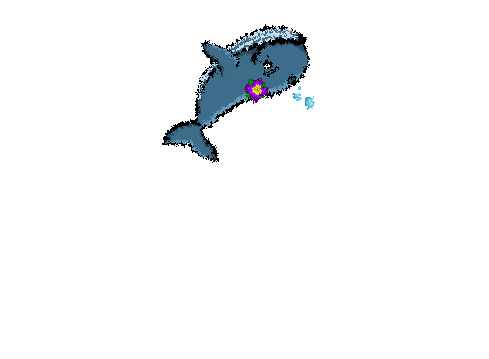
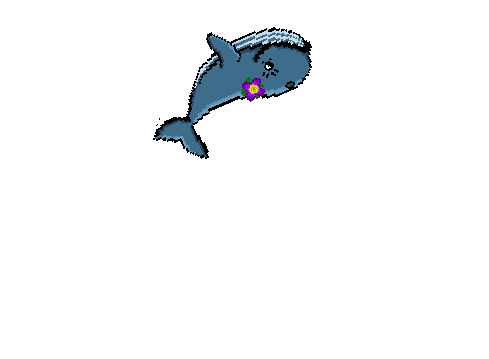
Update Mamu animation for clarity, and idle

Changed region(s): [[0.3067, 0.0613, 0.6442, 0.4596]]

diff --git a/game.py b/game.py
@@ -108,6 +108,20 @@ class NamuMamu(pygame.sprite.Sprite):
         self.sprites.append(pygame.image.load("./assets/NamuMamuAnim/Namu-Mamu-f16.png"))
         self.sprites.append(pygame.image.load("./assets/NamuMamuAnim/Namu-Mamu-f17.png"))
         self.sprites.append(pygame.image.load("./assets/NamuMamuAnim/Namu-Mamu-f18.png"))
+        self.sprites.append(pygame.image.load("./assets/NamuMamuAnim/Namu-Mamu-f19.png"))
+        self.sprites.append(pygame.image.load("./assets/NamuMamuAnim/Namu-Mamu-f20.png"))
+        self.sprites.append(pygame.image.load("./assets/NamuMamuAnim/Namu-Mamu-f21.png"))
+        self.sprites.append(pygame.image.load("./assets/NamuMamuAnim/Namu-Mamu-f22.png"))
+        self.sprites.append(pygame.image.load("./assets/NamuMamuAnim/Namu-Mamu-f23.png"))
+        self.sprites.append(pygame.image.load("./assets/NamuMamuAnim/Namu-Mamu-f24.png"))
+        self.sprites.append(pygame.image.load("./assets/NamuMamuAnim/Namu-Mamu-f25.png"))
+        self.sprites.append(pygame.image.load("./assets/NamuMamuAnim/Namu-Mamu-f26.png"))
+        self.sprites.append(pygame.image.load("./assets/NamuMamuAnim/Namu-Mamu-f27.png"))
+        self.sprites.append(pygame.image.load("./assets/NamuMamuAnim/Namu-Mamu-f28.png"))
+        self.sprites.append(pygame.image.load("./assets/NamuMamuAnim/Namu-Mamu-f29.png"))
+        self.sprites.append(pygame.image.load("./assets/NamuMamuAnim/Namu-Mamu-f30.png"))
+        self.sprites.append(pygame.image.load("./assets/NamuMamuAnim/Namu-Mamu-f31.png"))
+        self.sprites.append(pygame.image.load("./assets/NamuMamuAnim/Namu-Mamu-f32.png"))
 
 
         self.current_sprite = 0
